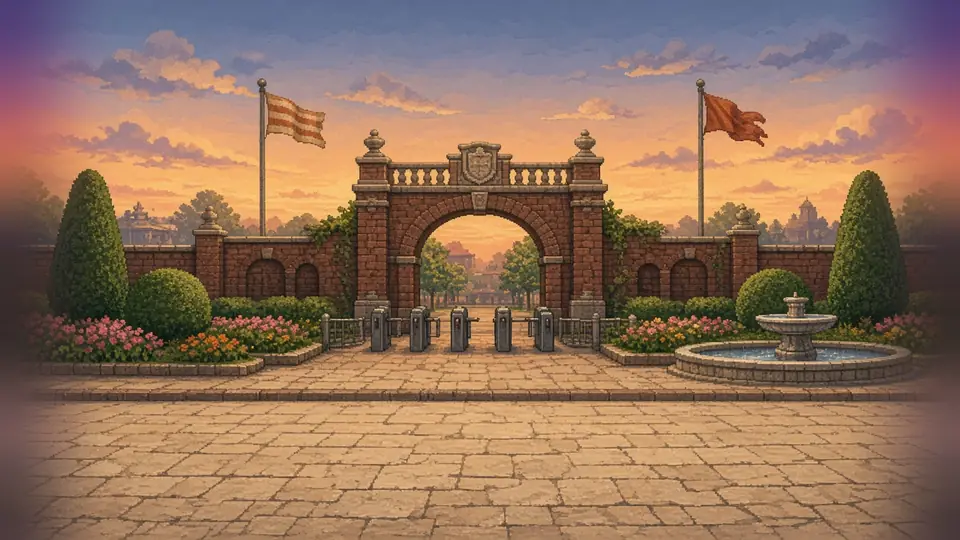
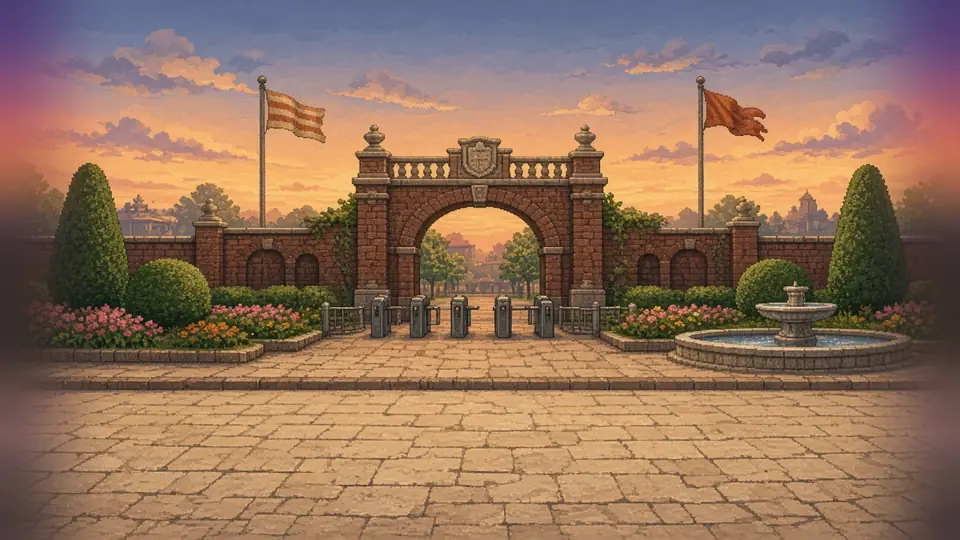
Painted-art polish: DINER neon and ZOO EXIT plaque on the plate boards, brighter dark screens (zoo exit, underbridge, wire, bunkers, HQ), floor-top fixes on 7 plates, glow lights re-aligned/removed to match painted scenery

diff --git a/js/bgscreens.js b/js/bgscreens.js
@@ -28,7 +28,7 @@ export const SCREENS = {
       { name: 'Lion House', plate: 'zoo-lion', top: rgb(228, 196, 232), bot: rgb(238, 224, 236), lm: [['bench', 236]], lights: [], },
       { name: 'Primate World', plate: 'zoo-primate', top: rgb(190, 184, 232), bot: rgb(214, 214, 240), stars: 0.35, lm: [['bush', 30, 22, '#1a4a30'], ['bush', 285, 24, '#1a4a30']], lights: [] },
       { name: 'Night Path', plate: 'zoo-reptile', lift: 0.08, top: rgb(120, 128, 196), bot: rgb(158, 168, 214), stars: 0.9, fog: 0.22, lm: [['bush', 26, 26, '#142e24'], ['bush', 296, 24, '#142e24']], lights: [] },
-      { name: 'Zoo Exit', plate: 'zoo-exit', top: rgb(92, 104, 176), bot: rgb(140, 152, 204), stars: 1, fog: 0.12, warm: [255, 40, 60, 0.04], lm: [['cone', 150], ['cone', 168]], lights: [[20, 70, 30, [255, 150, 120], 1]], siren: 1 },
+      { name: 'Zoo Exit', plate: 'zoo-exit', lift: 0.09, top: rgb(112, 124, 190), bot: rgb(176, 186, 224), stars: 1, fog: 0.12, warm: [255, 40, 60, 0.04], lm: [['ptext', 160, 45, 'ZOO EXIT', 'plaque'], ['cone', 150], ['cone', 168]], lights: [[48, 48, 22, [255, 205, 130], 1], [271, 48, 22, [255, 205, 130], 1]], siren: 1 },
     ],
   },
   street: {
@@ -37,9 +37,9 @@ export const SCREENS = {
       { name: 'Back Alley', plate: 'city-alley', top: ID, bot: ID, rain: 0.5, lm: [['dumpster', 40], ['hydrant', 210], ['pipe', 270]], lights: [] },
       { name: 'Vine Plaza', plate: 'city-plaza', top: rgb(205, 222, 255), bot: rgb(225, 235, 255), rain: 0.4, lm: [['lamp', 40, '#9fd0ff'], ['planter', 130], ['bench', 200], ['lamp', 300, '#9fd0ff']], lights: [[40, 70, 34, [140, 200, 255], 1], [300, 70, 34, [140, 200, 255], 1]] },
       { name: 'Storefront Row', plate: 'city-stores', top: rgb(255, 214, 250), bot: rgb(255, 232, 250), rain: 0.3, lm: [['hydrant', 24]], lights: [] },
-      { name: 'Diner Corner', plate: 'city-diner', top: rgb(255, 224, 190), bot: rgb(255, 236, 214), warm: [255, 150, 40, 0.06], rain: 0.2, lm: [['hydrant', 300]], lights: [[80, 84, 40, [255, 200, 110], 1]] },
+      { name: 'Diner Corner', plate: 'city-diner', top: rgb(255, 224, 190), bot: rgb(255, 236, 214), warm: [255, 150, 40, 0.06], rain: 0.2, lm: [['hydrant', 300], ['ptext', 133, 28.5, 'DINER', 'neon']], lights: [[80, 84, 40, [255, 200, 110], 1]] },
       { name: 'Bridge Approach', plate: 'city-bridge', top: rgb(180, 204, 240), bot: rgb(206, 224, 244), fog: 0.28, rain: 0.35, lm: [['barrier', 250], ['cone', 200]], lights: [] },
-      { name: 'Under the Bridge', plate: 'city-underbridge', top: rgb(120, 140, 190), bot: rgb(150, 168, 206), fog: 0.38, rain: 0.2, lm: [['girders', 0], ['dumpster', 220], ['cone', 120]], lights: [[160, 40, 46, [120, 170, 255], 1]] },
+      { name: 'Under the Bridge', plate: 'city-underbridge', lift: 0.09, top: rgb(140, 158, 206), bot: rgb(186, 200, 226), fog: 0.38, rain: 0.2, lm: [['girders', 0], ['dumpster', 220], ['cone', 120]], lights: [[160, 40, 46, [120, 170, 255], 1]] },
       { name: 'Precinct Barricade', plate: 'city-barricade', top: rgb(210, 190, 220), bot: rgb(226, 214, 232), rain: 0.25, lm: [['cone', 200]], lights: [], siren: 1 },
     ],
   },
@@ -48,7 +48,7 @@ export const SCREENS = {
     screens: [
       { name: 'Lobby', plate: 'fbi-lobby', top: ID, bot: ID, lm: [['plant', 30], ['bench', 250]], lights: [] },
       { name: 'Cubicles', plate: 'fbi-cubicles', top: rgb(235, 240, 240), bot: rgb(240, 244, 244), lm: [['cart', 150]], lights: [] },
-      { name: 'Records Corridor', plate: 'fbi-records', top: rgb(250, 238, 214), bot: rgb(250, 242, 224), warm: [255, 190, 90, 0.05], lm: [], lights: [[70, 24, 30, [255, 230, 170], 1], [230, 24, 30, [255, 230, 170], 1]] },
+      { name: 'Records Corridor', plate: 'fbi-records', top: rgb(250, 238, 214), bot: rgb(250, 242, 224), warm: [255, 190, 90, 0.05], lm: [], lights: [] },
       { name: 'Conference Wing', plate: 'fbi-conference', top: rgb(214, 226, 250), bot: rgb(230, 238, 250), lm: [['table', 190]], lights: [] },
       { name: 'Server Room', plate: 'fbi-server', top: rgb(150, 190, 240), bot: rgb(186, 208, 240), lm: [['cart', 60]], lights: [], blink: 1 },
       { name: 'Archives', plate: 'fbi-archive', top: rgb(240, 214, 176), bot: rgb(246, 230, 204), warm: [255, 160, 50, 0.07], lm: [['cart', 290]], lights: [] },
@@ -64,9 +64,9 @@ export const SCREENS = {
       { name: 'Barracks', plate: 'base-barracks', top: rgb(238, 190, 180), bot: rgb(246, 214, 204), lm: [], lights: [[70, 90, 24, [255, 200, 110], 1]], beams: 0.6, stars: 0.2 },
       { name: 'Fuel Depot', plate: 'base-fuel', top: rgb(210, 160, 170), bot: rgb(226, 196, 196), lm: [['drums', 140, 5]], lights: [], beams: 0.8, stars: 0.4 },
       { name: 'Airfield', plate: 'base-airfield', lift: 0.13, top: rgb(160, 130, 170), bot: rgb(196, 176, 196), stars: 0.55, lm: [['sandbags', 230, 3]], lights: [], beams: 0.9 },
-      { name: 'Wire Line', plate: 'base-wire', top: rgb(130, 112, 160), bot: rgb(176, 160, 186), stars: 0.7, fog: 0.2, lm: [['sandbags', 290, 3]], lights: [], beams: 1 },
-      { name: 'Bunker Row', plate: 'base-bunkers', top: rgb(106, 100, 150), bot: rgb(156, 150, 180), stars: 0.85, fog: 0.26, lm: [['lamp', 300, '#ff9a7a'], ['sandbags', 120, 3]], lights: [[300, 70, 30, [255, 150, 120], 1]], beams: 1 },
-      { name: 'Command HQ', plate: 'base-hq', top: rgb(86, 84, 140), bot: rgb(140, 138, 176), stars: 1, fog: 0.15, warm: [255, 30, 40, 0.05], lm: [['sandbags', 235, 4]], lights: [[120, 60, 40, [255, 90, 90], 1]], beams: 1, siren: 1 },
+      { name: 'Wire Line', plate: 'base-wire', lift: 0.08, top: rgb(150, 132, 178), bot: rgb(204, 190, 210), stars: 0.7, fog: 0.2, lm: [['sandbags', 290, 3]], lights: [], beams: 1 },
+      { name: 'Bunker Row', plate: 'base-bunkers', lift: 0.09, top: rgb(126, 120, 170), bot: rgb(188, 182, 208), stars: 0.85, fog: 0.26, lm: [['lamp', 300, '#ff9a7a'], ['sandbags', 120, 3]], lights: [[300, 70, 30, [255, 150, 120], 1]], beams: 1 },
+      { name: 'Command HQ', plate: 'base-hq', lift: 0.09, top: rgb(106, 104, 160), bot: rgb(176, 174, 204), stars: 1, fog: 0.15, warm: [255, 30, 40, 0.05], lm: [['sandbags', 235, 4]], lights: [[120, 60, 40, [255, 90, 90], 1]], beams: 1, siren: 1 },
     ],
   },
   jungle: {
@@ -75,9 +75,9 @@ export const SCREENS = {
       { name: 'Treeline', plate: 'jungle-treeline', top: rgb(230, 240, 230), bot: ID, motes: 0.3, lm: [['fern', 30], ['fern', 250], ['vines', 120, 5]], lights: [] },
       { name: 'Vine Thicket', plate: 'jungle-thicket', top: rgb(190, 215, 175), bot: rgb(220, 235, 210), motes: 0.4, lm: [['vines', 20, 8], ['vines', 100, 6], ['vines', 200, 9], ['fern', 150], ['fern', 290]], lights: [] },
       { name: 'River Ford', plate: 'jungle-ford', top: rgb(175, 210, 215), bot: rgb(210, 232, 232), fog: 0.3, lm: [], lights: [] },
-      { name: 'Old Ruins', plate: 'jungle-ruins', top: rgb(215, 215, 175), bot: rgb(232, 230, 200), lm: [['fern', 290]], lights: [[220, 70, 30, [255, 220, 120], 1]] },
+      { name: 'Old Ruins', plate: 'jungle-ruins', top: rgb(215, 215, 175), bot: rgb(232, 230, 200), lm: [['fern', 290]], lights: [] },
       { name: 'Dark Canopy', plate: 'jungle-canopy', lift: 0.12, top: rgb(120, 160, 130), bot: rgb(166, 196, 164), fog: 0.2, motes: 0.9, lm: [['fern', 30], ['fern', 290]], lights: [], flies: 1 },
-      { name: 'Glow Cave', plate: 'jungle-cave', top: rgb(110, 140, 170), bot: rgb(160, 186, 196), fog: 0.25, motes: 0.7, lm: [['rocks', 150]], lights: [[34, 112, 28, [140, 220, 255], 1], [94, 112, 28, [200, 150, 255], 1], [204, 112, 28, [140, 220, 255], 1], [274, 112, 28, [200, 150, 255], 1]], flies: 1 },
+      { name: 'Glow Cave', plate: 'jungle-cave', top: rgb(110, 140, 170), bot: rgb(160, 186, 196), fog: 0.25, motes: 0.7, lm: [['rocks', 150]], lights: [[31, 109, 20, [140, 220, 255], 1], [63, 98, 20, [200, 150, 255], 1], [257, 99, 20, [200, 150, 255], 1], [288, 109, 20, [140, 220, 255], 1]], flies: 1 },
       { name: 'Waterfall Mist', plate: 'jungle-waterfall', lift: 0.08, top: rgb(190, 225, 235), bot: rgb(215, 238, 240), fog: 0.22, lm: [['rocks', 300]], lights: [] },
       { name: 'Temple Approach', plate: 'jungle-temple', top: rgb(246, 226, 160), bot: rgb(250, 238, 200), warm: [255, 200, 60, 0.06], motes: 0.6, lm: [], lights: [[160, 60, 50, [255, 210, 110], 1]] },
       { name: 'Home Clearing', plate: 'jungle-clearing', top: rgb(255, 238, 190), bot: rgb(255, 246, 214), warm: [255, 210, 90, 0.09], motes: 0.8, lm: [['fern', 20], ['fern', 300], ['sign', 150, 'HOME', '#4a3a10', '#ffe890']], lights: [[160, 50, 60, [255, 230, 130], 1]] },

diff --git a/tests/props.test.js b/tests/props.test.js
@@ -16,7 +16,7 @@ test('every sprite rect is sane and sign/plaque faces sit inside their sprite', 
 test('every code-drawn prop kind used by the screens has a painted sprite (except water/bus/lights which stay code)', () => {
   const need = { sign: ['sign_s', 'sign_m', 'sign_l'], hsign: ['hsign'], bush: ['bush_a'], tree: ['tree'], stand: ['stand_a', 'stand_b'], bench: ['bench'], lamp: ['lamp'], cone: ['cone'], dumpster: ['dumpster'], hydrant: ['hydrant'], pipe: ['pipe'], planter: ['planter'], diner: ['diner'], girders: ['girders'], barrier: ['barrier'], plant: ['plant'], seal: ['seal'], cubicle: ['cubicle_a'], cooler: ['cooler'], door: ['door_a'], glass: ['glass'], table: ['table'], flag: ['flag'], cart: ['cart'], elevator: ['elevator'], curtain: ['curtain'], gatepost: ['gatepost'], sandbags: ['sandbags3', 'sandbags4'], jeep: ['jeep'], drums: ['drum_a', 'drum_b'], tent: ['tent'], tank: ['tank'], wire: ['wire'], bunker: ['bunker'], hq: ['hq'], fern: ['fern_a'], vines: ['vine_s', 'vine_m', 'vine_l'], rocks: ['rock_a'], pillar: ['pillar_t', 'pillar_s'], totem: ['totem'], glowflower: ['flower_a', 'flower_b'] };
   const kinds = new Set(); for (const k of Object.values(SCREENS)) for (const s of k.screens) for (const l of s.lm) kinds.add(l[0]);
-  for (const k of kinds) { if (k === 'bus') continue; assert.ok(need[k], 'no sprite mapping for ' + k); for (const n of need[k]) assert.ok(meta[n], k + ' -> ' + n); }
+  for (const k of kinds) { if (k === 'bus' || k === 'ptext') continue; assert.ok(need[k], 'no sprite mapping for ' + k); for (const n of need[k]) assert.ok(meta[n], k + ' -> ' + n); }
 });
 test('the WELCOME hanging sign keeps its gate-height position data', () => { const z = SCREENS.zoo.screens[0].lm.find(l => l[0] === 'hsign'); assert.equal(z[2], 'WELCOME'); });
 test('mirrored plate reuse: no two neighbouring screens show the same plate image (flip counts as the same image)', () => {

diff --git a/js/bgdraw.js b/js/bgdraw.js
@@ -18,6 +18,10 @@ function neon(t, x, y, px, core, glow) { g.save(); g.font = `900 ${px}px Impact,
 const text = (t, x, y, col) => drawText(g, t, x, y, col, 8, 'center', '#000');
 
 const LM = {
+  /** Lettering on a painted sign board of the plate (x = centre from the screen's left edge, y = text centre; crisp canvas text, no bitmap font). */
+  ptext(x, gy, y, t, kind) { if (kind === 'neon') { neon(t, x, y + 3.6, 10.5, '#ffc0c0', '#ff3a4a'); return; }
+    g.save(); g.font = '700 8px Georgia, "Times New Roman", serif'; g.textAlign = 'center'; g.textBaseline = 'alphabetic'; g.letterSpacing = '1.5px';
+    g.fillStyle = 'rgba(8,10,16,0.75)'; g.fillText(t, x + 0.4, y + 3.4); g.fillStyle = 'rgba(214,206,170,0.92)'; g.fillText(t, x, y + 2.8); g.restore(); },
   sign(x, gy, t, bg, fg) { const w = t.length * 6 + 10; R(x - w / 2 + 3, gy - 14, 2, 14, '#2a2418'); R(x + w / 2 - 5, gy - 14, 2, 14, '#2a2418'); box(x - w / 2, gy - 30, w, 16, bg); R(x - w / 2 + 2, gy - 28, w - 4, 1, sh(fg, 0.55)); text(t, x, gy - 16, fg); },
   hsign(x, gy, t, bg, fg) { const w = t.length * 6 + 12, y = gy - 50; R(x - w / 2, y - 8, w, 2, '#1a1a20'); R(x - w / 2 + 4, y - 6, 1, 6, '#6a6a72'); R(x + w / 2 - 5, y - 6, 1, 6, '#6a6a72'); box(x - w / 2, y, w, 16, bg); R(x - w / 2 + 2, y + 2, w - 4, 1, sh(fg, 0.55)); text(t, x, y + 14, fg); },
   bush(x, gy, w, c) { for (let i = 0; i < 4; i++) blob(x + (i - 1.5) * w / 4, gy - 5 - (i % 2) * 3, w / 3.2, 8, '#0c1a10'); for (let i = 0; i < 4; i++) { blob(x + (i - 1.5) * w / 4, gy - 6 - (i % 2) * 3, w / 3.4, 7, c); blob(x + (i - 1.5) * w / 4 - 2, gy - 9 - (i % 2) * 3, w / 7, 3, sh(c, 1.5)); } },

diff --git a/tools/ai-art/build_bg.py b/tools/ai-art/build_bg.py
@@ -51,22 +51,22 @@ EXTRA = {
     'base-airfield':    ('base',   0.765),
     'jungle-waterfall': ('jungle', 0.82),  'jungle-canopy':    ('jungle', 0.78),
     # one plate per screen (14 plates; floor tops measured on the 1280x720 sources, ledges use the ground/carpet band top edge)
-    'zoo-plaza':        ('zoo',    0.66),  'zoo-foodcourt':    ('zoo',    0.62),
-    'city-alley':       ('street', 0.72),  'city-plaza':       ('street', 0.70), 'city-underbridge': ('street', 0.70),
+    'zoo-plaza':        ('zoo',    0.685),  'zoo-foodcourt':    ('zoo',    0.62),
+    'city-alley':       ('street', 0.735),  'city-plaza':       ('street', 0.70), 'city-underbridge': ('street', 0.715),
     'fbi-lobby':        ('office', 0.64),  'fbi-cubicles':     ('office', 0.66),
     'fbi-elevators':    ('office', 0.67),  'fbi-director':     ('office', 0.67),
-    'base-gate':        ('base',   0.65),  'base-motorpool':   ('base',   0.66), 'base-bunkers':     ('base',   0.72),
+    'base-gate':        ('base',   0.65),  'base-motorpool':   ('base',   0.66), 'base-bunkers':     ('base',   0.735),
     'jungle-treeline':  ('jungle', 0.73),  'jungle-thicket':   ('jungle', 0.76),
     # repeat-fix plates (15)
     'zoo-primate': ('zoo', 0.68),
-    'zoo-exit': ('zoo', 0.67),
+    'zoo-exit': ('zoo', 0.735),
     'city-diner': ('street', 0.7),
     'city-barricade': ('street', 0.7),
     'fbi-records': ('office', 0.66),
     'fbi-conference': ('office', 0.66),
     'base-barracks': ('base', 0.67),
-    'base-fuel': ('base', 0.7),
-    'base-wire': ('base', 0.68),
+    'base-fuel': ('base', 0.745),
+    'base-wire': ('base', 0.715),
     'base-hq': ('base', 0.72),
     'jungle-ford': ('jungle', 0.78),
     'jungle-ruins': ('jungle', 0.7),
@@ -80,11 +80,11 @@ HAZE_ROWS = 45    # per-row haze colour samples stored in bg.json (runtime fades
 # Mean floor luminance (0-255) each plate's walk band is lifted to, so heroes/enemies read against it (stage floors sit at ~25-110).
 FLOOR_LUM = {'zoo-lion': 66, 'zoo-reptile': 72, 'city-stores': 30, 'city-bridge': 34, 'fbi-server': 96, 'fbi-archive': 114,
              'base-airfield': 84, 'jungle-waterfall': 66, 'jungle-canopy': 78,
-             'zoo-plaza': 70, 'zoo-foodcourt': 70, 'city-alley': 30, 'city-plaza': 34, 'city-underbridge': 34,
+             'zoo-plaza': 70, 'zoo-foodcourt': 70, 'city-alley': 30, 'city-plaza': 34, 'city-underbridge': 58,
              'fbi-lobby': 100, 'fbi-cubicles': 100, 'fbi-elevators': 90, 'fbi-director': 80,
-             'base-gate': 84, 'base-motorpool': 84, 'base-bunkers': 70, 'jungle-treeline': 70, 'jungle-thicket': 60,
+             'base-gate': 84, 'base-motorpool': 84, 'base-bunkers': 92, 'jungle-treeline': 70, 'jungle-thicket': 60,
              # repeat-fix plates
-             'zoo-primate': 70, 'zoo-exit': 70, 'city-diner': 34, 'city-barricade': 34, 'fbi-records': 100, 'fbi-conference': 100, 'base-barracks': 84, 'base-fuel': 72, 'base-wire': 72, 'base-hq': 70, 'jungle-ford': 66, 'jungle-ruins': 66, 'jungle-cave': 64, 'jungle-temple': 66, 'jungle-clearing': 66}
+             'zoo-primate': 70, 'zoo-exit': 92, 'city-diner': 34, 'city-barricade': 34, 'fbi-records': 100, 'fbi-conference': 100, 'base-barracks': 84, 'base-fuel': 72, 'base-wire': 92, 'base-hq': 92, 'jungle-ford': 66, 'jungle-ruins': 66, 'jungle-cave': 64, 'jungle-temple': 66, 'jungle-clearing': 66}
 LUMW = np.array([0.2126, 0.7152, 0.0722])
 def lift_floor(a, y0, y1, target):
     """Raise shadows of rows y0.. with a power curve (keeps hue) until the band's mean luminance reaches target; soft ramp at the top."""
